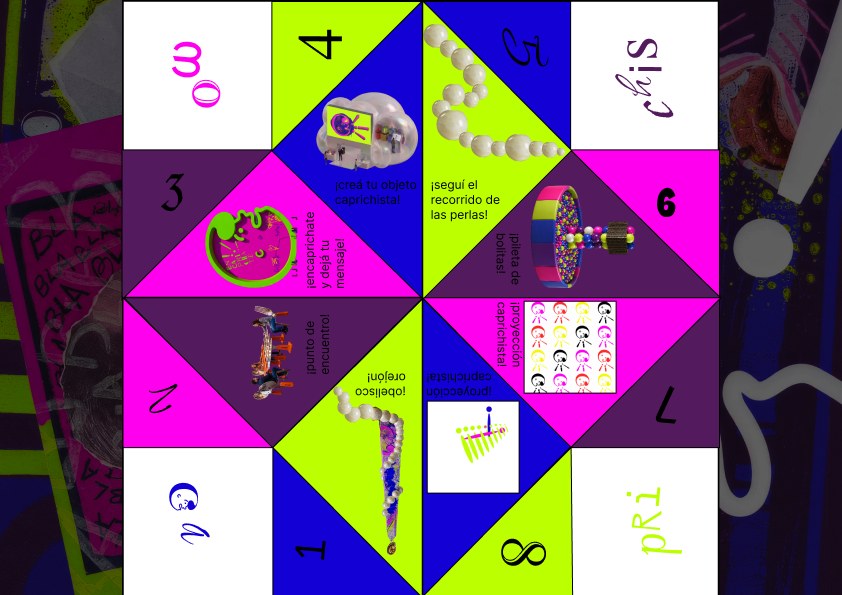
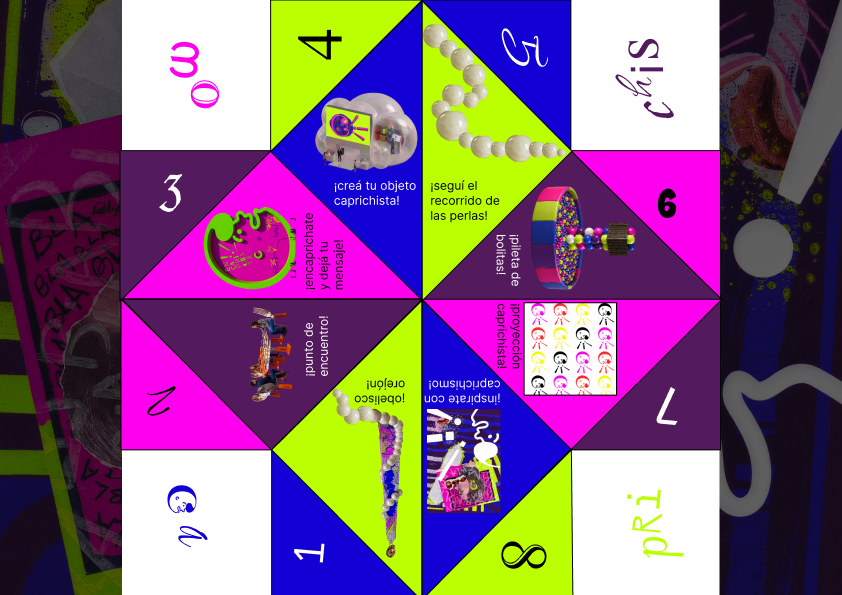
casi casi, se agrandan las imagenes

diff --git a/style.css b/style.css
@@ -189,7 +189,7 @@ body { margin: 0; background-color: white; }
 /* Imagen Principal (evento.png) */
 .evento-principal {
     width: 100%;
-    max-width: 900px;
+    max-width: 700px;
     padding: 0 40px;
     margin-bottom: 80px;
     display: flex;
@@ -475,21 +475,33 @@ body { margin: 0; background-color: white; }
     background-color: #BBFF01; 
 }
 
-/* Carrusel de Afiches */
-.carrusel-afiches { 
+/* --- NUEVA: Grilla de Afiches (4 en línea) --- */
+.grilla-afiches {
+    display: flex;
+    justify-content: center;
+    flex-wrap: wrap; /* Clave para celulares */
+    gap: 20px;
+    margin: 20px auto 60px auto;
     width: 100%;
-    max-width: 400px; /* Ancho que tenías ajustado a tus afiches */
-    position: relative; 
-    margin: 40px auto; 
-    overflow: hidden;
-    border-radius: 12px;
+    max-width: 1200px;
 }
-.slide-afiche { display: none; }
-.slide-afiche.activa { display: block; }
-.slide-afiche img { 
-    width: 100%; 
-    display: block;
-    box-shadow: 0 5px 15px rgba(0,0,0,0.1); 
+
+.grilla-afiches .item {
+    flex: 1 1 220px; /* Se achican o agrandan según el espacio, base 220px */
+    max-width: 280px; /* Tope máximo para que no queden gigantes */
+    display: flex;
+    justify-content: center;
+}
+
+.grilla-afiches .item img {
+    width: 100%;
+    border-radius: 8px;
+    box-shadow: 0px 5px 15px rgba(0,0,0,0.1);
+    transition: transform 0.3s ease;
+}
+
+.grilla-afiches .item img:hover {
+    transform: scale(1.03);
 }
 
 /* Botones y puntos del carrusel */
@@ -589,4 +601,110 @@ body { margin: 0; background-color: white; }
     /* Le sacamos el radio y sombra individual porque ahora lo maneja el contenedor */
     border-radius: 0; 
     box-shadow: none; 
+}
+
+/* --- NUEVA: Grilla Digitales (Mismo formato que newsletters) --- */
+.grilla-digitales { 
+    display: flex; 
+    justify-content: center; 
+    flex-wrap: wrap; 
+    gap: 30px; 
+    margin: 0 0 60px 0; /* Lo pegamos un poco más a los newsletters de arriba */
+    width: 100%;
+    max-width: 1300px;
+}
+.grilla-digitales .item {
+    display: flex;
+    justify-content: center;
+}
+.grilla-digitales .item img { 
+    width: 100%; 
+    max-width: 400px; /* El mismo tamaño exacto que elegiste para newsletters */
+    border-radius: 8px; 
+    transition: transform 0.3s;
+    box-shadow: 0px 4px 10px rgba(0,0,0,0.05);
+}
+.grilla-digitales .item img:hover { transform: scale(1.03); }
+
+/* --- NUEVA: Imagen Frames del Teaser --- */
+.imagen-frames {
+    margin: 20px 0 40px 0;
+    padding: 0 20px;
+    width: 100%;
+    max-width: 900px; /* Mismo ancho máximo que el contenedor del video */
+    display: flex;
+    justify-content: center;
+}
+.imagen-frames img {
+    width: 100%;
+    border-radius: 12px;
+    box-shadow: 0px 8px 25px rgba(0,0,0,0.1);
+}
+
+/* ========================================== */
+/* ESTILOS DEL LIGHTBOX (IMÁGENES AMPLIADAS)  */
+/* ========================================== */
+
+
+/* Cursor de lupita para avisar que se pueden tocar (Ampliado a todas las secciones) */
+.bloque-evento img, 
+.bloque-caprichismo img,
+.grilla-digitales img,
+.item-destacado img,
+.imagen-frames img {
+    cursor: zoom-in;
+}
+
+#lightbox-modal {
+    position: fixed;
+    z-index: 9999; /* Asegura que esté por encima de TODO */
+    top: 0;
+    left: 0;
+    width: 100vw;
+    height: 100vh;
+    background-color: rgba(0, 0, 0, 0.85); /* Fondo negro semi-transparente */
+    display: flex;
+    justify-content: center;
+    align-items: center;
+    opacity: 0;
+    pointer-events: none; /* Evita clics fantasma cuando está oculto */
+    transition: opacity 0.3s ease;
+}
+
+/* Clase que se agrega con JS para mostrarlo */
+#lightbox-modal.activo {
+    opacity: 1;
+    pointer-events: auto;
+}
+
+.lightbox-img {
+    max-width: 90vw;
+    max-height: 90vh;
+    border-radius: 8px;
+    box-shadow: 0 10px 40px rgba(0,0,0,0.5);
+    transform: scale(0.9);
+    transition: transform 0.3s ease;
+    cursor: default; /* El cursor de la imagen en sí es normal */
+}
+
+#lightbox-modal.activo .lightbox-img {
+    transform: scale(1); /* Efecto de zoom suave al abrir */
+}
+
+/* La X para cerrar */
+.lightbox-cerrar {
+    position: absolute;
+    top: 20px;
+    right: 40px;
+    color: white;
+    font-size: 50px;
+    font-family: 'Inter', sans-serif;
+    font-weight: bold;
+    cursor: pointer;
+    z-index: 10000;
+    transition: color 0.2s;
+}
+
+.lightbox-cerrar:hover {
+    color: #BBFF01; /* Detalle que se pinta de tu verde lima al pasar el mouse */
 }

diff --git a/app.js b/app.js
@@ -157,14 +157,47 @@ document.addEventListener('DOMContentLoaded', () => {
     // Activamos el Carrusel del Evento (Sin movimiento automático, pasamos 0)
     crearCarrusel('.carrusel-evento', '.slide', 0);
 
-    // Activamos el Carrusel de Caprichismo/Afiches (Con movimiento automático cada 5 seg)
-    crearCarrusel('.carrusel-afiches', '.slide-afiche', 5000);
-// Activamos los dos nuevos mini-carruseles de Newsletters (Sin movimiento automático)
-
     crearCarrusel('.carrusel-news1', '.slide-news', 0);
     crearCarrusel('.carrusel-news2', '.slide-news', 0);
 
     // Activamos el carrusel del Mapa
     crearCarrusel('.carrusel-mapa', '.slide-mapa', 0);
+
+// ==========================================
+    // 3. LIGHTBOX PARA IMÁGENES (AGRANDAR)
+    // ==========================================
+    
+    const lightbox = document.getElementById('lightbox-modal');
+    const lightboxImg = document.getElementById('lightbox-img-src');
+    const btnCerrar = document.querySelector('.lightbox-cerrar');
+
+   
+// Seleccionamos TODAS las imágenes, incluyendo las nuevas grillas por si quedaron afuera del contenedor padre
+    const imagenesExpandibles = document.querySelectorAll('.bloque-evento img, .bloque-caprichismo img, .grilla-digitales img, .item-destacado img, .imagen-frames img');
+
+    // Le agregamos la función de clic a cada imagen
+    imagenesExpandibles.forEach(img => {
+        img.addEventListener('click', (e) => {
+            e.stopPropagation(); // Evita que se activen otras cosas de fondo
+            lightboxImg.src = img.src; // Le pasamos la ruta de la foto clickeada
+            lightbox.classList.add('activo'); // Mostramos la pantalla oscura
+        });
+    });
+
+    // Función para cerrar
+    function cerrarLightbox() {
+        lightbox.classList.remove('activo');
+    }
+
+    // Cerrar al tocar la X
+    btnCerrar.addEventListener('click', cerrarLightbox);
+
+    // Cerrar al tocar cualquier parte del fondo oscuro (excepto la foto en sí)
+    lightbox.addEventListener('click', (e) => {
+        if (e.target !== lightboxImg) {
+            cerrarLightbox();
+        }
+    });
+
 
 });

diff --git a/index.html b/index.html
@@ -316,20 +316,12 @@
         </h1>
     </div>
 
-    <div class="carrusel-afiches">
-        <button class="btn-carrusel ant">&#10094;</button>
-        <div class="slide-afiche activa"><img src="assets/afiche1.png" alt="Afiche 1"></div>
-        <div class="slide-afiche"><img src="assets/afiche2.png" alt="Afiche 2"></div>
-        <div class="slide-afiche"><img src="assets/afiche3.png" alt="Afiche 3"></div>
-        <div class="slide-afiche"><img src="assets/afiche4.png" alt="Afiche 4"></div>
-        <button class="btn-carrusel sig">&#10095;</button>
-        <div class="puntos-afiche">
-            <span class="punto activo" data-index="0"></span>
-            <span class="punto" data-index="1"></span>
-            <span class="punto" data-index="2"></span>
-            <span class="punto" data-index="3"></span>
+   <div class="grilla-afiches">
+            <div class="item"><img src="assets/afiche1.png" alt="Afiche 1"></div>
+            <div class="item"><img src="assets/afiche2.png" alt="Afiche 2"></div>
+            <div class="item"><img src="assets/afiche3.png" alt="Afiche 3"></div>
+            <div class="item"><img src="assets/afiche4.png" alt="Afiche 4"></div>
         </div>
-    </div>
 
   <div class="grilla-newsletter">
             
@@ -357,7 +349,18 @@
 
         </div>
 
+</div> <div class="grilla-digitales">
+            <div class="item"><img src="assets/digitales1.png" alt="Digitales 1"></div>
+            <div class="item"><img src="assets/digitales2.png" alt="Digitales 2"></div>
+            <div class="item"><img src="assets/digitales3.png" alt="Digitales 3"></div>
+        </div>
+
     <div class="item-destacado"><img src="assets/prenda.png" alt="Indumentaria"></div>
+
+<div class="imagen-frames">
+            <img src="assets/teaserframes.png" alt="Frames del Teaser">
+        </div>
+
 
     <div class="contenedor-video">
         <video src="assets/teaser.mp4" controls></video>
@@ -376,5 +379,11 @@
         </div>
     </div>
     
+
+<div id="lightbox-modal" class="lightbox-oculto">
+        <span class="lightbox-cerrar">&times;</span>
+        <img class="lightbox-img" id="lightbox-img-src">
+    </div>
+
 </body>
 </html>